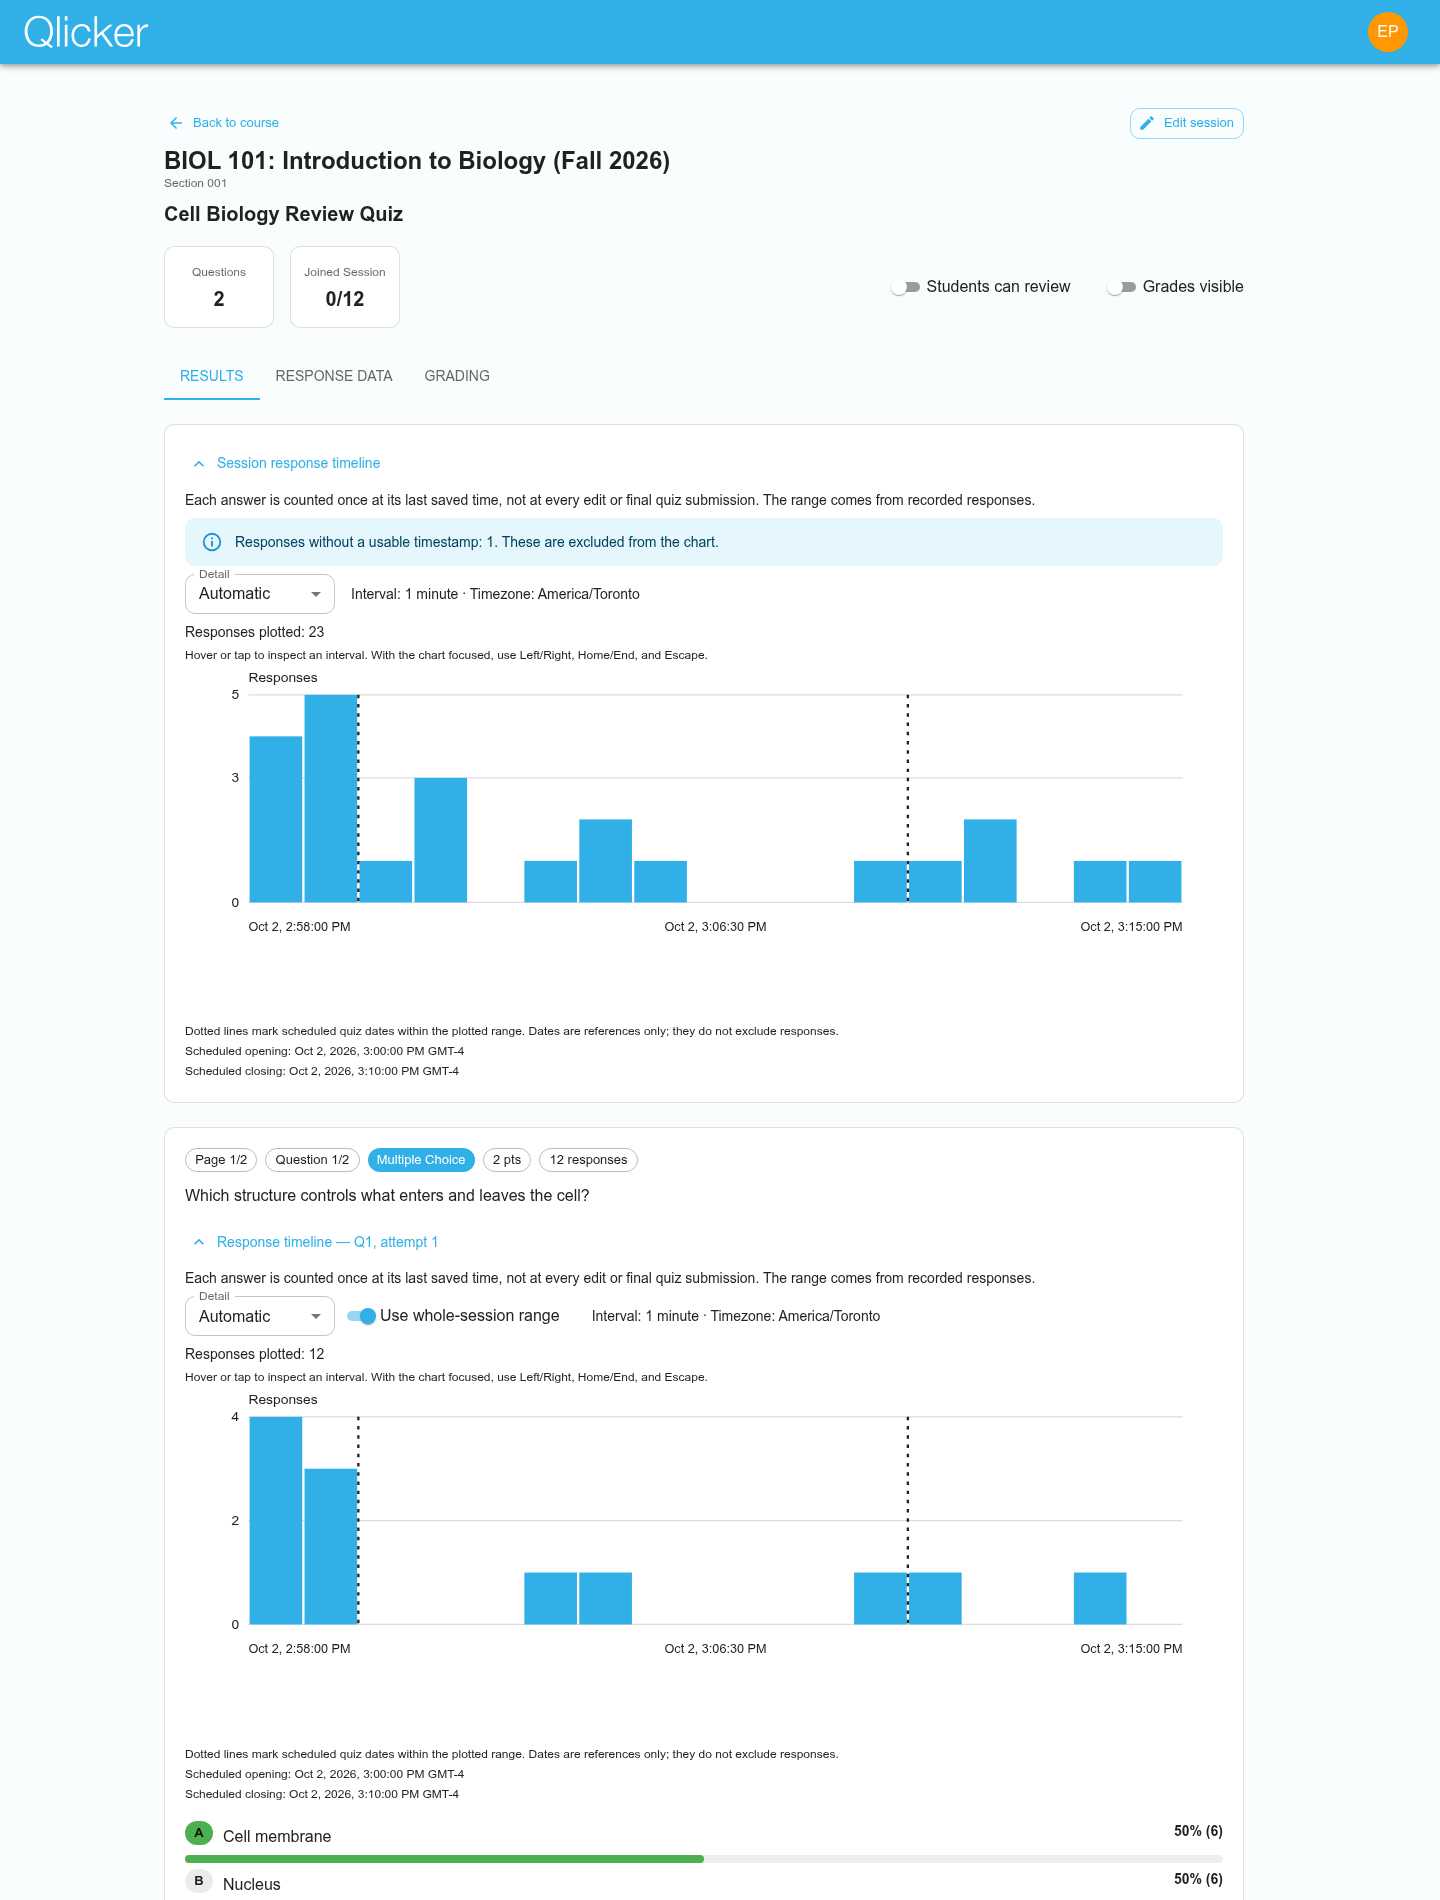
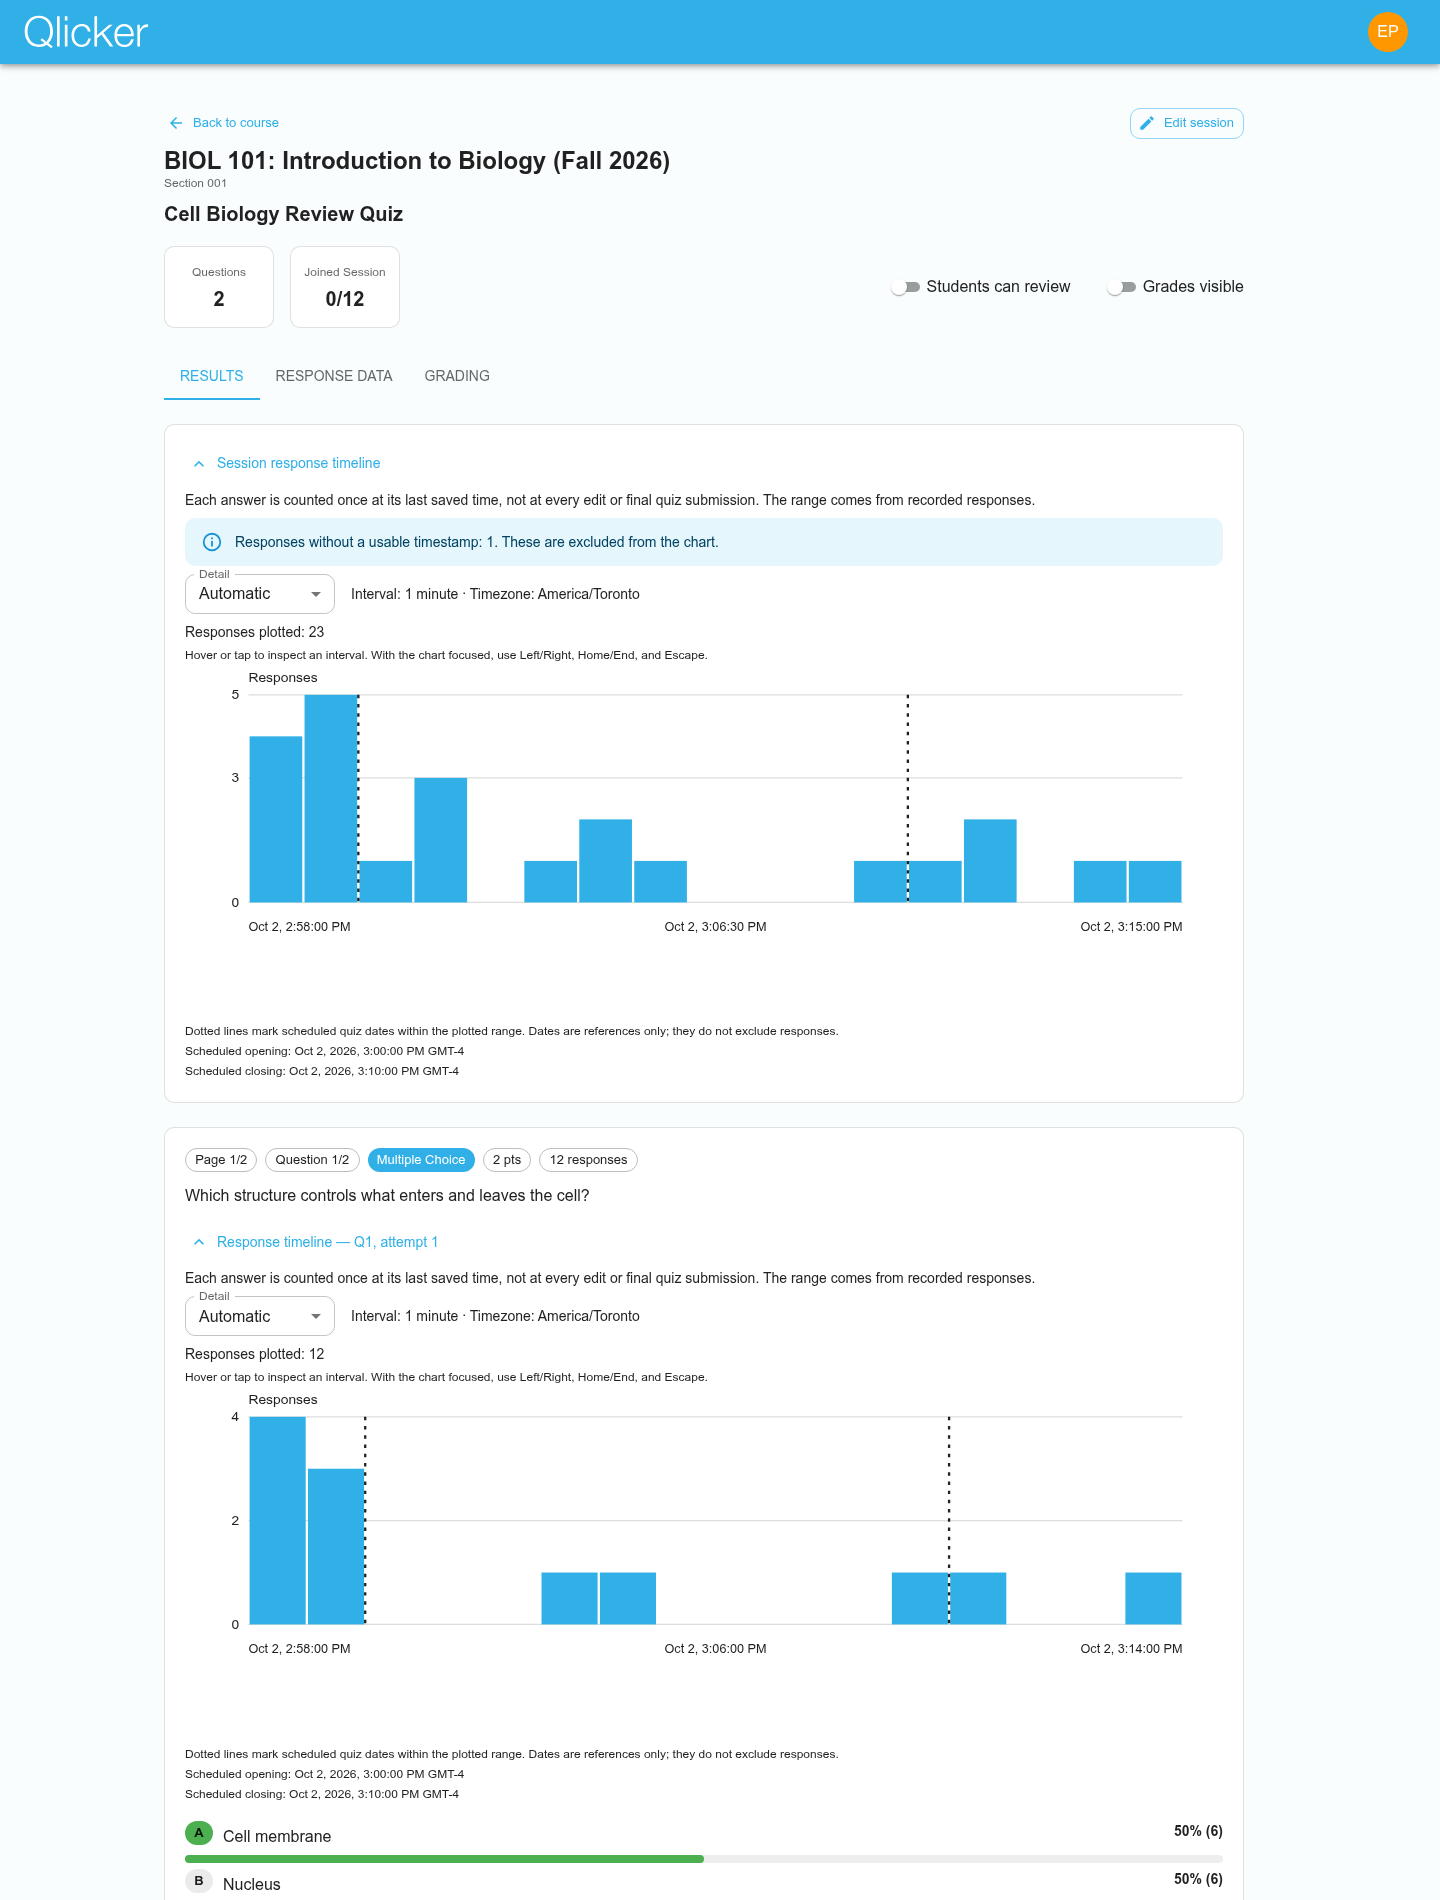
Collapse response timelines and use per-attempt ranges

diff --git a/client/src/components/questions/ResponseTimeline.test.jsx b/client/src/components/questions/ResponseTimeline.test.jsx
@@ -11,7 +11,11 @@ const data = collectResponseTimeline([
   { createdAt: '2026-10-02T19:04:00Z' },
   {},
 ]);
-const props = { title: 'Session response timeline', data, defaultExpanded: true };
+const props = { title: 'Session response timeline', data };
+
+function expandTimeline() {
+  fireEvent.click(screen.getByRole('button', { name: props.title }));
+}
 
 function pointer(svg, x, type = 'mouse') {
   svg.getBoundingClientRect = () => ({ left: 0, top: 0, width: 900, height: 250 });
@@ -25,6 +29,9 @@ describe('ResponseTimeline', () => {
 
   it('supports keyboard, pointer and touch inspection, including empty intervals', () => {
     render(<ResponseTimeline {...props} />);
+    expect(screen.getByRole('button', { name: props.title })).toHaveAttribute('aria-expanded', 'false');
+    expect(screen.queryByRole('img')).not.toBeInTheDocument();
+    expandTimeline();
     expect(screen.getByText(/Responses plotted: 4/)).toBeVisible();
     expect(screen.getByText(/without a usable timestamp: 1/)).toBeVisible();
     const chart = screen.getByRole('img', { name: props.title });
@@ -45,6 +52,7 @@ describe('ResponseTimeline', () => {
 
   it('marks scheduled quiz dates without restricting responses to the schedule', () => {
     render(<ResponseTimeline {...props} quiz quizStart="2026-10-02T19:01:00Z" quizEnd="2026-10-02T19:03:00Z" />);
+    expandTimeline();
     expect(screen.getByText(/last saved time/)).toBeVisible();
     expect(screen.getByText(/Responses plotted: 4/)).toBeVisible();
     const chart = screen.getByRole('img');
@@ -53,16 +61,16 @@ describe('ResponseTimeline', () => {
     expect(screen.getByText(/^Scheduled closing:/, { selector: 'div' })).toBeVisible();
   });
 
-  it('lists schedule dates outside the response range and clears stale readouts on range changes', () => {
-    render(<ResponseTimeline {...props} quiz quizStart="2026-10-02T18:00:00Z" quizEnd="2026-10-02T21:00:00Z"
-      sessionRange={{ min: Date.parse('2026-10-02T18:00:00Z'), max: Date.parse('2026-10-02T21:00:00Z') }} />);
+  it('lists dates outside its own response range and clears stale readouts when detail changes', () => {
+    render(<ResponseTimeline {...props} quiz quizStart="2026-10-02T18:00:00Z" quizEnd="2026-10-02T21:00:00Z" />);
+    expandTimeline();
     expect(screen.getAllByText(/outside response range/)).toHaveLength(2);
+    expect(screen.queryByRole('switch')).not.toBeInTheDocument();
     fireEvent.focus(screen.getByRole('img'));
-    fireEvent.click(screen.getByRole('switch', { name: /whole-session range/i }));
-    expect(screen.getByRole('status')).toBeEmptyDOMElement();
-    expect(screen.queryByText(/outside response range/)).not.toBeInTheDocument();
     fireEvent.mouseDown(screen.getByRole('combobox', { name: 'Detail' }));
     fireEvent.click(screen.getByRole('option', { name: 'Fine' }));
+    expect(screen.getByRole('status')).toBeEmptyDOMElement();
+    expect(screen.getAllByText(/outside response range/)).toHaveLength(2);
     expect(screen.getByText(/Responses plotted: 4/)).toBeVisible();
   });
 

diff --git a/client/e2e/manual-screenshots.spec.js b/client/e2e/manual-screenshots.spec.js
@@ -372,7 +372,7 @@ test('capture current user-manual screenshots', async ({ browser, request }) => 
   await capture(professorPage, 'professor-grades.png');
   await professorPage.goto(`/prof/course/${course._id}/session/${completedQuiz._id}/review`);
   await expect(professorPage.getByRole('switch', { name: 'Grades visible', exact: true })).toBeChecked();
-  await professorPage.getByRole('button', { name: 'Session response timeline', exact: true }).click();
+  await expect(professorPage.getByRole('button', { name: 'Session response timeline', exact: true })).toHaveAttribute('aria-expanded', 'false');
   await capture(professorPage, 'professor-session-review.png');
   await professorPage.getByRole('tab', { name: /^Response Data$/i }).click();
   await professorPage.getByRole('button', { name: /^Export results to CSV$/i }).click();
@@ -591,6 +591,8 @@ test('review response timelines include all response times and work on narrow sc
   await loginViaUi(page, professor.email, professor.password, /\/prof$/);
   await page.setViewportSize({ width: 1440, height: 1500 });
   await page.goto(`/prof/course/${course._id}/session/${session._id}/review`);
+  await expect(page.getByRole('button', { name: 'Session response timeline', exact: true })).toHaveAttribute('aria-expanded', 'false');
+  await page.getByRole('button', { name: 'Session response timeline', exact: true }).click();
   const overview = page.getByRole('region', { name: 'Session response timeline', exact: true });
   await expect(overview.getByText('Responses plotted: 23', { exact: true })).toBeVisible();
   await expect(overview.getByText(/without a usable timestamp: 1/)).toBeVisible();
@@ -606,11 +608,11 @@ test('review response timelines include all response times and work on narrow sc
   await page.getByRole('button', { name: 'Response timeline — Q1, attempt 1', exact: true }).click();
   const question = page.getByRole('region', { name: 'Response timeline — Q1, attempt 1', exact: true });
   await expect(question.getByText('Responses plotted: 12', { exact: true })).toBeVisible();
-  await question.getByRole('switch', { name: 'Use whole-session range' }).check();
+  await expect(question.getByRole('switch')).toHaveCount(0);
   await expectNoCriticalAccessibilityViolations(page);
   if (process.env.QCLICKER_CAPTURE_MANUALS === '1') await capture(page, 'professor-response-timeline.png', 1900);
   await page.setViewportSize({ width: 390, height: 844 });
-  await expect(question.getByRole('switch', { name: 'Use whole-session range' })).toBeVisible();
+  await expect(question.getByRole('combobox', { name: 'Detail' })).toBeVisible();
   expect(await page.evaluate(() => document.documentElement.scrollWidth <= window.innerWidth + 1)).toBe(true);
   await chart.scrollIntoViewIfNeeded();
   await chart.tap({ position: { x: 90, y: 80 } });

diff --git a/client/src/components/questions/ResponseTimeline.jsx b/client/src/components/questions/ResponseTimeline.jsx
@@ -1,5 +1,5 @@
 import { useId, useMemo, useState } from 'react';
-import { Alert, Box, Button, Collapse, FormControlLabel, MenuItem, Switch, TextField, Typography } from '@mui/material';
+import { Alert, Box, Button, Collapse, MenuItem, TextField, Typography } from '@mui/material';
 import { ExpandLess, ExpandMore } from '@mui/icons-material';
 import { useTranslation } from 'react-i18next';
 import { buildResponseTimelineBins } from '../../utils/responseTimeline';
@@ -8,15 +8,14 @@ const PLOT = { left: 55, top: 25, width: 810, height: 180 };
 const WIDTH = 900;
 const HEIGHT = 250;
 
-function TimelineChart({ data, title, quiz, quizStart, quizEnd, sessionRange }) {
+function TimelineChart({ data, title, quiz, quizStart, quizEnd }) {
   const { t } = useTranslation();
   const helpId = useId();
   const [detail, setDetail] = useState(25);
-  const [wholeSession, setWholeSession] = useState(false);
   const [selection, setSelection] = useState(null);
   const chart = useMemo(() => buildResponseTimelineBins(data, {
-    targetBins: detail, range: wholeSession && sessionRange ? sessionRange : data.range,
-  }), [data, detail, wholeSession, sessionRange]);
+    targetBins: detail,
+  }), [data, detail]);
   const activeIndex = selection?.chart === chart ? selection.index : null;
   const activeBin = activeIndex === null ? null : chart?.bins[activeIndex];
   const formatTime = (value) => new Intl.DateTimeFormat(undefined, {
@@ -69,7 +68,6 @@ function TimelineChart({ data, title, quiz, quizStart, quizEnd, sessionRange }) 
               <MenuItem value={25}>{t('responseTimeline.auto')}</MenuItem>
               <MenuItem value={80}>{t('responseTimeline.fine')}</MenuItem>
             </TextField>
-            {sessionRange && <FormControlLabel control={<Switch size="small" checked={wholeSession} onChange={(event) => setWholeSession(event.target.checked)} />} label={t('responseTimeline.wholeSession')} />}
             <Typography variant="body2">{t('responseTimeline.interval', { interval: intervalLabel, timezone })}</Typography>
           </Box>
           <Typography variant="body2">{t('responseTimeline.total', { count: data.timestamps.length })}</Typography>
@@ -118,8 +116,8 @@ function TimelineChart({ data, title, quiz, quizStart, quizEnd, sessionRange }) 
   );
 }
 
-export default function ResponseTimeline({ title, defaultExpanded = false, ...props }) {
-  const [expanded, setExpanded] = useState(defaultExpanded);
+export default function ResponseTimeline({ title, ...props }) {
+  const [expanded, setExpanded] = useState(false);
   const id = useId();
   return (
     <Box sx={{ minWidth: 0 }}>

diff --git a/client/src/pages/professor/SessionReview.test.jsx b/client/src/pages/professor/SessionReview.test.jsx
@@ -514,13 +514,22 @@ describe('SessionReview', () => {
   it('combines all attempts in the overview and offers separate question timelines', async () => {
     renderSessionReview();
     await screen.findByText('Midterm review');
+    expect(screen.getByRole('button', { name: 'Session response timeline' })).toHaveAttribute('aria-expanded', 'false');
+    expect(screen.queryByRole('region', { name: 'Session response timeline' })).not.toBeInTheDocument();
+    fireEvent.click(screen.getByRole('button', { name: 'Session response timeline' }));
     const overview = screen.getByRole('region', { name: 'Session response timeline' });
     expect(within(overview).getByText('Responses plotted: 2')).toBeVisible();
     expect(screen.queryByRole('img', { name: /Q1, attempt/ })).not.toBeInTheDocument();
-    fireEvent.click(screen.getByRole('button', { name: 'Response timeline — Q1, attempt 1' }));
-    const attempt = screen.getByRole('region', { name: 'Response timeline — Q1, attempt 1' });
-    expect(within(attempt).getByText('Responses plotted: 1')).toBeVisible();
-    expect(within(attempt).getByRole('switch', { name: 'Use whole-session range' })).not.toBeChecked();
+    for (const number of [1, 2]) {
+      const name = `Response timeline — Q1, attempt ${number}`;
+      fireEvent.click(screen.getByRole('button', { name }));
+      const attempt = screen.getByRole('region', { name });
+      expect(within(attempt).getByText('Responses plotted: 1')).toBeVisible();
+      expect(within(attempt).queryByRole('switch')).not.toBeInTheDocument();
+      // Each attempt has a single timestamp; its plot must not inherit the
+      // broader multi-bin range of the other attempt or the whole session.
+      expect(within(attempt).getByRole('img').querySelectorAll('rect')).toHaveLength(1);
+    }
     expect(within(overview).queryByRole('switch')).not.toBeInTheDocument();
   });
 

diff --git a/client/src/pages/professor/SessionReview.jsx b/client/src/pages/professor/SessionReview.jsx
@@ -1628,7 +1628,7 @@ export default function SessionReview() {
           <Box sx={{ display: 'flex', flexDirection: 'column', gap: 3 }}>
             {sessionTimeline && <Paper variant="outlined" sx={{ p: 2.5, minWidth: 0 }}>
               <ResponseTimeline key={sessionId} title={t('responseTimeline.overview')} data={sessionTimeline}
-                quiz={session?.quiz} quizStart={session?.quizStart} quizEnd={session?.quizEnd} defaultExpanded />
+                quiz={session?.quiz} quizStart={session?.quizStart} quizEnd={session?.quizEnd} />
             </Paper>}
             {questionAttemptRows.map((row) => {
               const q = row.question;
@@ -1712,7 +1712,7 @@ export default function SessionReview() {
 
                   {row.timeline && <Box sx={{ mb: 2 }}>
                     <ResponseTimeline title={t('responseTimeline.question', { number: row.questionNumber, attempt: row.attemptNumber })}
-                      data={row.timeline} sessionRange={sessionTimeline?.range}
+                      data={row.timeline}
                       quiz={session?.quiz} quizStart={session?.quizStart} quizEnd={session?.quizEnd} />
                   </Box>}
 

diff --git a/client/src/utils/responseTimeline.js b/client/src/utils/responseTimeline.js
@@ -20,11 +20,9 @@ export function collectResponseTimeline(responses = []) {
 const INTERVALS = [1000, 5000, 10000, 30000, 60000, 300000, 900000, 1800000,
   3600000, 10800000, 21600000, 43200000, 86400000, 604800000, 2592000000];
 
-export function buildResponseTimelineBins(data, { range = data.range, targetBins = 25 } = {}) {
-  if (!data.timestamps.length || !range) return null;
-  // A selected comparison range must never exclude a recorded response.
-  const min = Math.min(range.min, data.range.min);
-  const max = Math.max(range.max, data.range.max);
+export function buildResponseTimelineBins(data, { targetBins = 25 } = {}) {
+  if (!data.timestamps.length || !data.range) return null;
+  const { min, max } = data.range;
   const desired = Math.max(1000, (max - min) / Math.max(1, Math.min(80, targetBins)));
   const interval = INTERVALS.find((value) => value >= desired)
     || Math.ceil(desired / 2592000000) * 2592000000;

diff --git a/client/src/utils/responseTimeline.test.js b/client/src/utils/responseTimeline.test.js
@@ -32,11 +32,11 @@ describe('response timelines', () => {
     expect(chart.end - chart.start).toBe(1000);
   });
 
-  it('uses a session comparison range without clipping question responses', () => {
+  it('uses only its own responses to set the range', () => {
     const data = collectResponseTimeline([{ createdAt: '2026-10-02T19:00:00Z' }, { createdAt: '2026-10-02T20:00:00Z' }]);
-    const chart = buildResponseTimelineBins(data, { range: { min: Date.parse('2026-10-02T19:30:00Z'), max: Date.parse('2026-10-02T21:00:00Z') } });
-    expect(chart.start).toBeLessThanOrEqual(data.range.min);
-    expect(chart.end).toBeGreaterThan(Date.parse('2026-10-02T21:00:00Z'));
+    const chart = buildResponseTimelineBins(data);
+    expect(chart.start).toBe(data.range.min);
+    expect(chart.end).toBe(data.range.max + chart.interval);
     expect(chart.bins.reduce((sum, bin) => sum + bin.count, 0)).toBe(2);
   });
 

diff --git a/docs/developer/data-model.md b/docs/developer/data-model.md
@@ -123,7 +123,7 @@ Instructor results already include these fields for named activities. The option
 
 The CSV's `Joined Session` column uses the same formatter for `joinedAt`, regardless of the response timestamp option, with blank cells for missing or invalid dates. The on-screen join-time display remains localized.
 
-Session-review response timelines use the same response timestamp precedence as CSV exports. They aggregate the existing results payload locally per question/attempt and across the session, retaining the API's submitted-quiz and anonymity filters. Missing timestamps are counted but excluded. Histogram domains come from response extrema, rounded outward to complete intervals; scheduled quiz dates are annotations, never response filters. No live-period tracking, additional requests, or edit-history collection is introduced. Coarse/automatic/fine detail bounds the chart to at most 81 bins, including long gaps and outlying dates. Anonymous sessions never build timeline data.
+Session-review response timelines use the same response timestamp precedence as CSV exports. They aggregate the existing results payload locally per question/attempt and across the session, retaining the API's submitted-quiz and anonymity filters. All timelines start collapsed. Each question attempt has a separate graph with its own response range. Missing timestamps are counted but excluded. Histogram domains come from response extrema, rounded outward to complete intervals; scheduled quiz dates are annotations, never response filters. No live-period tracking, additional requests, or edit-history collection is introduced. Coarse/automatic/fine detail bounds the chart to at most 81 bins, including long gaps and outlying dates. Anonymous sessions never build timeline data.
 
 ## Grade
 

diff --git a/docs/user-manual/professor.md b/docs/user-manual/professor.md
@@ -531,7 +531,7 @@ The CSV's **Joined Session** column always uses the same ISO 8601 format, whethe
 
 ### Response timelines
 
-The **Results** tab starts with a collapsible **Session response timeline**, combining recorded responses from all questions and attempts. Each question/attempt also has an expandable **Response timeline**. Bars show response counts per time interval; empty intervals preserve pauses between live periods. **Detail** changes the interval size automatically for a coarse or fine view. A question chart starts with its own response range; enable **Use whole-session range** to compare it with other questions on the same time range.
+The **Results** tab starts with a **Session response timeline**, collapsed on page load, combining recorded responses from all questions and attempts. Each question/attempt also has its own expandable **Response timeline**, using only that attempt's response timestamps to set its range. Multiple attempts appear as separate graphs, not combined into one question graph. Bars show response counts per time interval; empty intervals preserve pauses between live periods. **Detail** changes the interval size automatically for a coarse or fine view.
 
 The range is inferred from the earliest and latest available response timestamps, rounded outward to complete intervals. No session start/end times are recorded for this feature. Quiz charts count each answer once at its last saved time, rather than showing every edit or final quiz submission. Interactive-session charts count responses at submission. Missing or invalid timestamps are excluded with a visible count. Anonymous activities do not show timelines.
 
